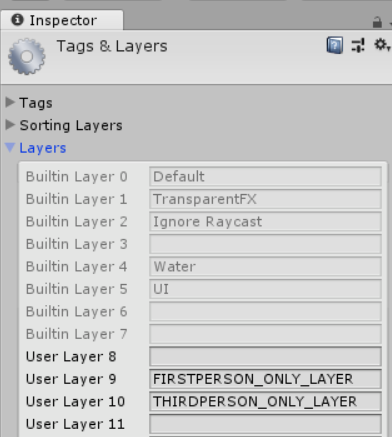
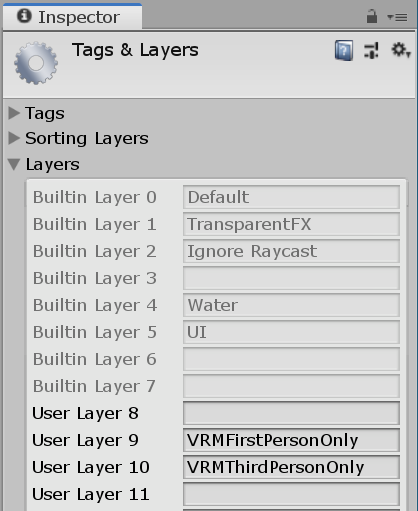
Deploy vrm-c/vrm.dev to github.com/vrm-c/vrm.dev.git:gh-pages

Changed region(s): [[0.0, 0.0, 1.0, 1.0]]

diff --git a/en/docs/dev/programming/univrm_use_firstperson/index.html b/en/docs/dev/programming/univrm_use_firstperson/index.html
@@ -1,7 +1,7 @@
 <!doctype html><html lang=en class=no-js><head><meta charset=utf-8><meta name=viewport content="width=device-width,initial-scale=1,shrink-to-fit=no"><meta name=generator content="Hugo 0.56.3"><meta name=ROBOTS content="INDEX, FOLLOW"><link rel="shortcut icon" href=/favicons/favicon.ico><link rel=apple-touch-icon href=/favicons/apple-touch-icon-180x180.png sizes=180x180><link rel=icon type=image/png href=/favicons/favicon-16x16.png sizes=16x16><link rel=icon type=image/png href=/favicons/favicon-32x32.png sizes=32x32><link rel=icon type=image/png href=/favicons/android-36x36.png sizes=36x36><link rel=icon type=image/png href=/favicons/android-48x48.png sizes=48x48><link rel=icon type=image/png href=/favicons/android-72x72.png sizes=72x72><link rel=icon type=image/png href=/favicons/android-96x196.png sizes=96x196><link rel=icon type=image/png href=/favicons/android-144x144.png sizes=144x144><link rel=icon type=image/png href=/favicons/android-192x192.png sizes=192x192><title>How to Use VRMFirstPerson | VRM</title><meta property=og:title content="How to Use VRMFirstPerson"><meta property=og:description content="VRMFirstPerson Settings VRMFirstPerson has the following settings for Renderer:
-   FirstPersonFlag Layer Note     Both default Specify parts that are not necessarily separated between first-person view and third-person view.   ThirdPersonOnly THIRDPERSON_ONLY_LAYER Specify parts that are not rendered in first-person view.   FirstPersonOnly FIRSTPERSON_ONLY_LAYER Specify parts that are not rendered in third-person view. The auto-created headless model is used.   Auto THIRDPERSON_ONLY_LAYER Automatically create the model in first-person view at runtime and set it to FIRSTPERSON_ONLY_LAYER."><meta property=og:type content=article><meta property=og:url content=https://vrm.dev/en/docs/dev/programming/univrm_use_firstperson/><meta property=og:image content=https://vrm.dev/images/vrm/card.png><meta property=article:published_time content=2018-05-29T10:00:00+09:00><meta property=article:modified_time content=2018-05-29T10:00:00+09:00><meta property=og:site_name content=VRM><meta itemprop=name content="How to Use VRMFirstPerson"><meta itemprop=description content="VRMFirstPerson Settings VRMFirstPerson has the following settings for Renderer:
-   FirstPersonFlag Layer Note     Both default Specify parts that are not necessarily separated between first-person view and third-person view.   ThirdPersonOnly THIRDPERSON_ONLY_LAYER Specify parts that are not rendered in first-person view.   FirstPersonOnly FIRSTPERSON_ONLY_LAYER Specify parts that are not rendered in third-person view. The auto-created headless model is used.   Auto THIRDPERSON_ONLY_LAYER Automatically create the model in first-person view at runtime and set it to FIRSTPERSON_ONLY_LAYER."><meta itemprop=datePublished content=2018-05-29T10:00:00&#43;09:00><meta itemprop=dateModified content=2018-05-29T10:00:00&#43;09:00><meta itemprop=wordCount content=250><meta itemprop=keywords content><meta name=twitter:card content=summary_large_image><meta name=twitter:image content=https://vrm.dev/images/vrm/card.png><meta name=twitter:title content="How to Use VRMFirstPerson"><meta name=twitter:description content="VRMFirstPerson Settings VRMFirstPerson has the following settings for Renderer:
-   FirstPersonFlag Layer Note     Both default Specify parts that are not necessarily separated between first-person view and third-person view.   ThirdPersonOnly THIRDPERSON_ONLY_LAYER Specify parts that are not rendered in first-person view.   FirstPersonOnly FIRSTPERSON_ONLY_LAYER Specify parts that are not rendered in third-person view. The auto-created headless model is used.   Auto THIRDPERSON_ONLY_LAYER Automatically create the model in first-person view at runtime and set it to FIRSTPERSON_ONLY_LAYER."><link rel=preload href=/scss/main.min.f809dd81c31369e745fc9960408ecf7e6c5ed33854d3a4201a6c039d56a4d89c.css as=style><link href=/scss/main.min.f809dd81c31369e745fc9960408ecf7e6c5ed33854d3a4201a6c039d56a4d89c.css rel=stylesheet integrity><script src=https://code.jquery.com/jquery-3.3.1.min.js integrity="sha256-FgpCb/KJQlLNfOu91ta32o/NMZxltwRo8QtmkMRdAu8=" crossorigin=anonymous></script><title>How to Use VRMFirstPerson | VRM</title></head><body class=td-page><header><nav class="js-navbar-scroll navbar navbar-expand navbar-dark flex-column flex-md-row td-navbar"><a class=navbar-brand href=/en/><span class=navbar-logo></span><span class="text-uppercase font-weight-bold">VRM</span></a><div class="td-navbar-nav-scroll ml-md-auto" id=main_navbar><ul class="navbar-nav mt-2 mt-lg-0"><li class="nav-item mr-4 mb-2 mb-lg-0"><a class=nav-link href=/en/vrm/><span>About VRM</span></a></li><li class="nav-item mr-4 mb-2 mb-lg-0"><a class=nav-link href=https://github.com/vrm-c/vrm-specification/blob/master/specification/0.0/README.md target=_blank><span>VRM Format Technical Specifications</span></a></li><li class="nav-item mr-4 mb-2 mb-lg-0"><a class=nav-link href=/en/docs/univrm/><span>UniVRM Manual</span></a></li><li class="nav-item mr-4 mb-2 mb-lg-0"><a class="nav-link active" href=/en/docs/dev/><span class=active>UniVRM Implementation</span></a></li><li class="nav-item mr-4 mb-2 mb-lg-0"><a class=nav-link href=https://github.com/vrm-c/UniVRM target=_blank><span>UniVRM Repository</span></a></li><li class="nav-item mr-4 mb-2 mb-lg-0"><a class=nav-link href=https://vrm-consortium.org/ target=_blank><span>VRM Consortium</span></a></li><li class="nav-item dropdown d-none d-lg-block"><a class="nav-link dropdown-toggle" href=# id=navbarDropdown role=button data-toggle=dropdown aria-haspopup=true aria-expanded=false>English</a><div class=dropdown-menu aria-labelledby=navbarDropdownMenuLink><a class=dropdown-item href=/docs/dev/programming/univrm_use_firstperson/>日本語</a></div></li></ul></div><div class="navbar-nav d-none d-lg-block"></div></nav></header><div class="container-fluid td-outer"><div class=td-main><div class="row flex-xl-nowrap"><div class="col-12 col-md-3 col-xl-2 td-sidebar d-print-none"><div id=td-sidebar-menu class=td-sidebar__inner><nav class="collapse td-sidebar-nav pt-2 pl-4" id=td-section-nav><div class="nav-item dropdown d-block d-lg-none"><a class="nav-link dropdown-toggle" href=# id=navbarDropdown role=button data-toggle=dropdown aria-haspopup=true aria-expanded=false>English</a><div class=dropdown-menu aria-labelledby=navbarDropdownMenuLink><a class=dropdown-item href=/docs/dev/programming/univrm_use_firstperson/>日本語</a></div></div><ul class="td-sidebar-nav__section pr-md-3"><li class=td-sidebar-nav__section-title><a href=/en/docs/ class="align-left pl-0 pr-2 td-sidebar-link td-sidebar-link__section">Documentation</a></li><ul><li class="collapse show" id=en-docs><ul class="td-sidebar-nav__section pr-md-3"><li class=td-sidebar-nav__section-title><a href=/en/vrm/ class="align-left pl-0 pr-2 collapsed td-sidebar-link td-sidebar-link__section">About VRM</a></li><ul><li class=collapse id=en-vrm><a class="td-sidebar-link td-sidebar-link__page" id=m-en-vrm-about href=/en/vrm_about/>What is “VRM”? What can VRM do?</a>
+   FirstPersonFlag Layer Note     Both default Specify parts that are not necessarily separated between first-person view and third-person view.   ThirdPersonOnly VRMThirdPersonOnly Specify parts that are not rendered in first-person view.   FirstPersonOnly VRMFirstPersonOnly Specify parts that are not rendered in third-person view. The auto-created headless model is used.   Auto VRMThirdPersonOnly Automatically create the model in first-person view at runtime and set it to FIRSTPERSON_ONLY_LAYER."><meta property=og:type content=article><meta property=og:url content=https://vrm.dev/en/docs/dev/programming/univrm_use_firstperson/><meta property=og:image content=https://vrm.dev/images/vrm/card.png><meta property=article:published_time content=2018-05-29T10:00:00+09:00><meta property=article:modified_time content=2018-05-29T10:00:00+09:00><meta property=og:site_name content=VRM><meta itemprop=name content="How to Use VRMFirstPerson"><meta itemprop=description content="VRMFirstPerson Settings VRMFirstPerson has the following settings for Renderer:
+   FirstPersonFlag Layer Note     Both default Specify parts that are not necessarily separated between first-person view and third-person view.   ThirdPersonOnly VRMThirdPersonOnly Specify parts that are not rendered in first-person view.   FirstPersonOnly VRMFirstPersonOnly Specify parts that are not rendered in third-person view. The auto-created headless model is used.   Auto VRMThirdPersonOnly Automatically create the model in first-person view at runtime and set it to FIRSTPERSON_ONLY_LAYER."><meta itemprop=datePublished content=2018-05-29T10:00:00&#43;09:00><meta itemprop=dateModified content=2018-05-29T10:00:00&#43;09:00><meta itemprop=wordCount content=250><meta itemprop=keywords content><meta name=twitter:card content=summary_large_image><meta name=twitter:image content=https://vrm.dev/images/vrm/card.png><meta name=twitter:title content="How to Use VRMFirstPerson"><meta name=twitter:description content="VRMFirstPerson Settings VRMFirstPerson has the following settings for Renderer:
+   FirstPersonFlag Layer Note     Both default Specify parts that are not necessarily separated between first-person view and third-person view.   ThirdPersonOnly VRMThirdPersonOnly Specify parts that are not rendered in first-person view.   FirstPersonOnly VRMFirstPersonOnly Specify parts that are not rendered in third-person view. The auto-created headless model is used.   Auto VRMThirdPersonOnly Automatically create the model in first-person view at runtime and set it to FIRSTPERSON_ONLY_LAYER."><link rel=preload href=/scss/main.min.f809dd81c31369e745fc9960408ecf7e6c5ed33854d3a4201a6c039d56a4d89c.css as=style><link href=/scss/main.min.f809dd81c31369e745fc9960408ecf7e6c5ed33854d3a4201a6c039d56a4d89c.css rel=stylesheet integrity><script src=https://code.jquery.com/jquery-3.3.1.min.js integrity="sha256-FgpCb/KJQlLNfOu91ta32o/NMZxltwRo8QtmkMRdAu8=" crossorigin=anonymous></script><title>How to Use VRMFirstPerson | VRM</title></head><body class=td-page><header><nav class="js-navbar-scroll navbar navbar-expand navbar-dark flex-column flex-md-row td-navbar"><a class=navbar-brand href=/en/><span class=navbar-logo></span><span class="text-uppercase font-weight-bold">VRM</span></a><div class="td-navbar-nav-scroll ml-md-auto" id=main_navbar><ul class="navbar-nav mt-2 mt-lg-0"><li class="nav-item mr-4 mb-2 mb-lg-0"><a class=nav-link href=/en/vrm/><span>About VRM</span></a></li><li class="nav-item mr-4 mb-2 mb-lg-0"><a class=nav-link href=https://github.com/vrm-c/vrm-specification/blob/master/specification/0.0/README.md target=_blank><span>VRM Format Technical Specifications</span></a></li><li class="nav-item mr-4 mb-2 mb-lg-0"><a class=nav-link href=/en/docs/univrm/><span>UniVRM Manual</span></a></li><li class="nav-item mr-4 mb-2 mb-lg-0"><a class="nav-link active" href=/en/docs/dev/><span class=active>UniVRM Implementation</span></a></li><li class="nav-item mr-4 mb-2 mb-lg-0"><a class=nav-link href=https://github.com/vrm-c/UniVRM target=_blank><span>UniVRM Repository</span></a></li><li class="nav-item mr-4 mb-2 mb-lg-0"><a class=nav-link href=https://vrm-consortium.org/ target=_blank><span>VRM Consortium</span></a></li><li class="nav-item dropdown d-none d-lg-block"><a class="nav-link dropdown-toggle" href=# id=navbarDropdown role=button data-toggle=dropdown aria-haspopup=true aria-expanded=false>English</a><div class=dropdown-menu aria-labelledby=navbarDropdownMenuLink><a class=dropdown-item href=/docs/dev/programming/univrm_use_firstperson/>日本語</a></div></li></ul></div><div class="navbar-nav d-none d-lg-block"></div></nav></header><div class="container-fluid td-outer"><div class=td-main><div class="row flex-xl-nowrap"><div class="col-12 col-md-3 col-xl-2 td-sidebar d-print-none"><div id=td-sidebar-menu class=td-sidebar__inner><nav class="collapse td-sidebar-nav pt-2 pl-4" id=td-section-nav><div class="nav-item dropdown d-block d-lg-none"><a class="nav-link dropdown-toggle" href=# id=navbarDropdown role=button data-toggle=dropdown aria-haspopup=true aria-expanded=false>English</a><div class=dropdown-menu aria-labelledby=navbarDropdownMenuLink><a class=dropdown-item href=/docs/dev/programming/univrm_use_firstperson/>日本語</a></div></div><ul class="td-sidebar-nav__section pr-md-3"><li class=td-sidebar-nav__section-title><a href=/en/docs/ class="align-left pl-0 pr-2 td-sidebar-link td-sidebar-link__section">Documentation</a></li><ul><li class="collapse show" id=en-docs><ul class="td-sidebar-nav__section pr-md-3"><li class=td-sidebar-nav__section-title><a href=/en/vrm/ class="align-left pl-0 pr-2 collapsed td-sidebar-link td-sidebar-link__section">About VRM</a></li><ul><li class=collapse id=en-vrm><a class="td-sidebar-link td-sidebar-link__page" id=m-en-vrm-about href=/en/vrm_about/>What is “VRM”? What can VRM do?</a>
 <a class="td-sidebar-link td-sidebar-link__page" id=m-en-how-to-make-vrm href=/en/how_to_make_vrm/>How to make VRM file</a>
 <a class="td-sidebar-link td-sidebar-link__page" id=m-en-how-to-view-vrm href=/en/how_to_view_vrm/>How to view VRM file</a>
 <a class="td-sidebar-link td-sidebar-link__page" id=m-en-vrm-applications href=/en/vrm_applications/>What applications that support VRM?</a></li></ul></ul><ul class="td-sidebar-nav__section pr-md-3"><li class=td-sidebar-nav__section-title><a href=/en/docs/univrm/ class="align-left pl-0 pr-2 collapsed td-sidebar-link td-sidebar-link__section">UniVRM Manual</a></li><ul><li class=collapse id=en-docs-univrm><a class="td-sidebar-link td-sidebar-link__page" id=m-en-univrm-univrm-install href=/en/univrm/univrm_install/>Install UniVRM</a>
@@ -27,7 +27,7 @@
 <a class="td-sidebar-link td-sidebar-link__page" id=m-en-docs-dev-programming-runtime-import href=/en/docs/dev/programming/runtime_import/>Runtime Importer</a></li></ul></ul></li></ul></ul></li></ul></ul></nav></div></div><div class="d-none d-xl-block col-xl-2 td-toc d-print-none"><div class="td-page-meta ml-2 pb-1 pt-2 mb-0"><a href=https://github.com/vrm-c/vrm.dev/edit/master/content/en/docs/dev/programming/univrm_use_firstperson.md target=_blank><i class="fa fa-edit fa-fw"></i>Edit this page</a>
 <a href="https://github.com/vrm-c/vrm.dev/issues/new?title=How%20to%20Use%20VRMFirstPerson" target=_blank><i class="fab fa-github fa-fw"></i>Create documentation issue</a></div><nav id=TableOfContents><ul><li><a href=#vrmfirstperson-settings-univrm-firstperson><a href=../univrm_firstperson/>VRMFirstPerson Settings</a></a></li><li><a href=#specify-the-additional-render-layers-for-the-application>Specify the additional render layers for the application</a></li><li><a href=#call-setup-function-at-runtime-and-set-layermask-in-camera>Call Setup function at runtime and set LayerMask in Camera</a></li></ul></nav></div><main class="col-12 col-md-9 col-xl-8 pl-md-5" role=main><nav aria-label=breadcrumb class="d-none d-md-block d-print-none"><ol class="breadcrumb spb-1"><li class=breadcrumb-item><a href=https://vrm.dev/en/docs/>Documentation</a></li><li class=breadcrumb-item><a href=https://vrm.dev/en/docs/dev/>UniVRM Implementation</a></li><li class=breadcrumb-item><a href=https://vrm.dev/en/docs/dev/programming/>Programming</a></li><li class="breadcrumb-item active" aria-current=page><a href=https://vrm.dev/en/docs/dev/programming/univrm_use_firstperson/>How to use first-person mode</a></li></ol></nav><div class=td-content><h1>How to Use VRMFirstPerson</h1><div class=share><a href="https://twitter.com/share?ref_src=twsrc%5Etfw" class=twitter-share-button data-text="How to use first-person mode  - VRM" data-url=https://vrm.dev/en/docs/dev/programming/univrm_use_firstperson/ data-show-count=false>Tweet</a><script async src=https://platform.twitter.com/widgets.js></script>
 <a href=https://b.hatena.ne.jp/entry/https://vrm.dev/en/docs/dev/programming/univrm_use_firstperson/ class=hatena-bookmark-button data-hatena-bookmark-layout=basic-label-counter data-hatena-bookmark-lang=ja title=このエントリーをはてなブックマークに追加><img src=https://b.st-hatena.com/images/v4/public/entry-button/button-only@2x.png alt=このエントリーをはてなブックマークに追加 width=20 height=20 style=border:none></a><script type=text/javascript src=https://b.st-hatena.com/js/bookmark_button.js async></script>
-<iframe src="https://www.facebook.com/plugins/share_button.php?href=https%3a%2f%2fvrm.dev%2fen%2fdocs%2fdev%2fprogramming%2funivrm_use_firstperson%2f&layout=button&size=small&mobile_iframe=false&width=68&height=20&appId" width=68 height=20 style=border:none;overflow:hidden scrolling=no frameborder=0 allowtransparency=true></iframe></div><h1 id=vrmfirstperson-settings-univrm-firstperson><a href=../univrm_firstperson/>VRMFirstPerson Settings</a></h1><p>VRMFirstPerson has the following settings for Renderer:</p><table><thead><tr><th>FirstPersonFlag</th><th>Layer</th><th>Note</th></tr></thead><tbody><tr><td>Both</td><td>default</td><td>Specify parts that are not necessarily separated between first-person view and third-person view.</td></tr><tr><td>ThirdPersonOnly</td><td>THIRDPERSON_ONLY_LAYER</td><td>Specify parts that are not rendered in first-person view.</td></tr><tr><td>FirstPersonOnly</td><td>FIRSTPERSON_ONLY_LAYER</td><td>Specify parts that are not rendered in third-person view. The auto-created headless model is used.</td></tr><tr><td>Auto</td><td>THIRDPERSON_ONLY_LAYER</td><td>Automatically create the model in first-person view at runtime and set it to FIRSTPERSON_ONLY_LAYER.</td></tr></tbody></table><p>By calling <strong>VRMFirstPerson.Setup</strong> at runtime, the layer settings described above can be performed. Please call the function explicitly from outside.</p><h1 id=specify-the-additional-render-layers-for-the-application>Specify the additional render layers for the application</h1><p>The following layers are defined as constant:</p><div class=highlight><pre style=background-color:#f8f8f8;-moz-tab-size:4;-o-tab-size:4;tab-size:4><code class=language-cs data-lang=cs><span style=color:#204a87;font-weight:700>public</span> <span style=color:#204a87;font-weight:700>class</span> <span style=color:#000>VRMFirstPerson</span> <span style=color:#000;font-weight:700>:</span> <span style=color:#000>MonoBehaviour</span>
+<iframe src="https://www.facebook.com/plugins/share_button.php?href=https%3a%2f%2fvrm.dev%2fen%2fdocs%2fdev%2fprogramming%2funivrm_use_firstperson%2f&layout=button&size=small&mobile_iframe=false&width=68&height=20&appId" width=68 height=20 style=border:none;overflow:hidden scrolling=no frameborder=0 allowtransparency=true></iframe></div><h1 id=vrmfirstperson-settings-univrm-firstperson><a href=../univrm_firstperson/>VRMFirstPerson Settings</a></h1><p>VRMFirstPerson has the following settings for Renderer:</p><table><thead><tr><th>FirstPersonFlag</th><th>Layer</th><th>Note</th></tr></thead><tbody><tr><td>Both</td><td>default</td><td>Specify parts that are not necessarily separated between first-person view and third-person view.</td></tr><tr><td>ThirdPersonOnly</td><td>VRMThirdPersonOnly</td><td>Specify parts that are not rendered in first-person view.</td></tr><tr><td>FirstPersonOnly</td><td>VRMFirstPersonOnly</td><td>Specify parts that are not rendered in third-person view. The auto-created headless model is used.</td></tr><tr><td>Auto</td><td>VRMThirdPersonOnly</td><td>Automatically create the model in first-person view at runtime and set it to FIRSTPERSON_ONLY_LAYER.</td></tr></tbody></table><p>By calling <strong>VRMFirstPerson.Setup</strong> at runtime, the layer settings described above can be performed. Please call the function explicitly from outside.</p><h1 id=specify-the-additional-render-layers-for-the-application>Specify the additional render layers for the application</h1><p>The following layers are defined as constant:</p><div class=highlight><pre style=background-color:#f8f8f8;-moz-tab-size:4;-o-tab-size:4;tab-size:4><code class=language-cs data-lang=cs><span style=color:#204a87;font-weight:700>public</span> <span style=color:#204a87;font-weight:700>class</span> <span style=color:#000>VRMFirstPerson</span> <span style=color:#000;font-weight:700>:</span> <span style=color:#000>MonoBehaviour</span>
 <span style=color:#000;font-weight:700>{</span>
     <span style=color:#204a87;font-weight:700>public</span> <span style=color:#204a87;font-weight:700>const</span> <span style=color:#204a87;font-weight:700>int</span> <span style=color:#000>FIRSTPERSON_ONLY_LAYER</span> <span style=color:#000;font-weight:700>=</span> <span style=color:#0000cf;font-weight:700>9</span><span style=color:#000;font-weight:700>;</span>
     <span style=color:#204a87;font-weight:700>public</span> <span style=color:#204a87;font-weight:700>const</span> <span style=color:#204a87;font-weight:700>int</span> <span style=color:#000>THIRDPERSON_ONLY_LAYER</span> <span style=color:#000;font-weight:700>=</span> <span style=color:#0000cf;font-weight:700>10</span><span style=color:#000;font-weight:700>;</span>
@@ -45,10 +45,10 @@
     <span style=color:#000>Camera</span> <span style=color:#000>m_firstPersonCamera</span><span style=color:#000;font-weight:700>;</span> <span style=color:#8f5902;font-style:italic>// HMD camera
 </span><span style=color:#8f5902;font-style:italic></span><span style=color:#c4a000>    
 </span><span style=color:#c4a000>    [SerializeField]</span>
-    <span style=color:#000>LayerMask</span> <span style=color:#000>m_firstPersonMask</span><span style=color:#000;font-weight:700>;</span> <span style=color:#8f5902;font-style:italic>// Set a first-person mask (default | FIRSTPERSON_ONLY_LAYER, etc.) in HMD camera
+    <span style=color:#000>LayerMask</span> <span style=color:#000>m_firstPersonMask</span><span style=color:#000;font-weight:700>;</span> <span style=color:#8f5902;font-style:italic>// Set a first-person mask (default | VRMFirstPersonOnly, etc.) in HMD camera
 </span><span style=color:#8f5902;font-style:italic></span><span style=color:#c4a000>
 </span><span style=color:#c4a000>    [SerializeField]</span>
-    <span style=color:#000>LayerMask</span> <span style=color:#000>m_otherMask</span><span style=color:#000;font-weight:700>;</span> <span style=color:#8f5902;font-style:italic>// Set other masks (default | THIRDPERSON_ONLY_LAYER, etc.) in HMD camera
+    <span style=color:#000>LayerMask</span> <span style=color:#000>m_otherMask</span><span style=color:#000;font-weight:700>;</span> <span style=color:#8f5902;font-style:italic>// Set other masks (default | VRMThirdPersonOnly, etc.) in HMD camera
 </span><span style=color:#8f5902;font-style:italic></span><span style=color:#c4a000>
 </span><span style=color:#c4a000>    [SerializeField]</span>
     <span style=color:#000>VRMFirstPerson</span> <span style=color:#000>m_firstPerson</span><span style=color:#000;font-weight:700>;</span>

diff --git a/docs/dev/programming/univrm_use_firstperson/index.html b/docs/dev/programming/univrm_use_firstperson/index.html
@@ -24,7 +24,7 @@
 <a class="td-sidebar-link td-sidebar-link__page" id=m-docs-dev-programming-runtime-import href=/docs/dev/programming/runtime_import/>ランタイムインポーター</a></li></ul></ul></li></ul></ul></li></ul></ul></nav></div></div><div class="d-none d-xl-block col-xl-2 td-toc d-print-none"><div class="td-page-meta ml-2 pb-1 pt-2 mb-0"><a href=https://github.com/vrm-c/vrm.dev/edit/master/content/ja/docs/dev/programming/univrm_use_firstperson.md target=_blank><i class="fa fa-edit fa-fw"></i>ページの編集</a>
 <a href="https://github.com/vrm-c/vrm.dev/issues/new?title=VRMFirstPerson%e3%81%ae%e4%bd%bf%e3%81%84%e6%96%b9" target=_blank><i class="fab fa-github fa-fw"></i>ドキュメントのissueを作成</a></div><nav id=TableOfContents><ul><li><a href=#vrmfirstpersonの設定-univrm-firstperson><a href=../univrm_firstperson/>VRMFirstPersonの設定</a></a></li><li><a href=#アプリケーションに追加の描画レイヤーを指定する>アプリケーションに追加の描画レイヤーを指定する</a></li><li><a href=#実行時にsetupを呼び出して-カメラにlayermaskを設定する>実行時にSetupを呼び出して、カメラにLayerMaskを設定する</a></li></ul></nav></div><main class="col-12 col-md-9 col-xl-8 pl-md-5" role=main><nav aria-label=breadcrumb class="d-none d-md-block d-print-none"><ol class="breadcrumb spb-1"><li class=breadcrumb-item><a href=https://vrm.dev/docs/>ドキュメント</a></li><li class=breadcrumb-item><a href=https://vrm.dev/docs/dev/>UniVRM実装</a></li><li class=breadcrumb-item><a href=https://vrm.dev/docs/dev/programming/>プログラミング</a></li><li class="breadcrumb-item active" aria-current=page><a href=https://vrm.dev/docs/dev/programming/univrm_use_firstperson/>一人称モードの使い方</a></li></ol></nav><div class=td-content><h1>VRMFirstPersonの使い方</h1><div class=share><a href="https://twitter.com/share?ref_src=twsrc%5Etfw" class=twitter-share-button data-text="一人称モードの使い方 - VRM" data-url=https://vrm.dev/docs/dev/programming/univrm_use_firstperson/ data-show-count=false>Tweet</a><script async src=https://platform.twitter.com/widgets.js></script>
 <a href=https://b.hatena.ne.jp/entry/https://vrm.dev/docs/dev/programming/univrm_use_firstperson/ class=hatena-bookmark-button data-hatena-bookmark-layout=basic-label-counter data-hatena-bookmark-lang=ja title=このエントリーをはてなブックマークに追加><img src=https://b.st-hatena.com/images/v4/public/entry-button/button-only@2x.png alt=このエントリーをはてなブックマークに追加 width=20 height=20 style=border:none></a><script type=text/javascript src=https://b.st-hatena.com/js/bookmark_button.js async></script>
-<iframe src="https://www.facebook.com/plugins/share_button.php?href=https%3a%2f%2fvrm.dev%2fdocs%2fdev%2fprogramming%2funivrm_use_firstperson%2f&layout=button&size=small&mobile_iframe=false&width=68&height=20&appId" width=68 height=20 style=border:none;overflow:hidden scrolling=no frameborder=0 allowtransparency=true></iframe></div><h1 id=vrmfirstpersonの設定-univrm-firstperson><a href=../univrm_firstperson/>VRMFirstPersonの設定</a></h1><p>VRMFirstPersonではRendererに対して設定があります。</p><table><thead><tr><th>FirstPersonFlag</th><th>レイヤー</th><th>備考</th></tr></thead><tbody><tr><td>Both</td><td>default</td><td>一人称と三人称で分ける必要のない部分に指定します</td></tr><tr><td>ThirdPersonOnly</td><td>THIRDPERSON_ONLY_LAYER</td><td>一人称時に描画したくない部分に指定します</td></tr><tr><td>FirstPersonOnly</td><td>FIRSTPERSON_ONLY_LAYER</td><td>三人称時に描画したくない部分に指定します。自動作成した頭部無しモデルが使います</td></tr><tr><td>Auto</td><td>THIRDPERSON_ONLY_LAYER</td><td>実行時に一人称用モデルを自動で作成し、それをFIRSTPERSON_ONLY_LAYERに設定します</td></tr></tbody></table><p>実行時に<strong>VRMFirstPerson.Setup</strong>を呼び出すことで、上記のレイヤー設定を行うことができます。明示的に外部から呼び出してください。</p><h1 id=アプリケーションに追加の描画レイヤーを指定する>アプリケーションに追加の描画レイヤーを指定する</h1><p>定数で以下のレイヤーを定義しています。</p><div class=highlight><pre style=background-color:#f8f8f8;-moz-tab-size:4;-o-tab-size:4;tab-size:4><code class=language-cs data-lang=cs><span style=color:#204a87;font-weight:700>public</span> <span style=color:#204a87;font-weight:700>class</span> <span style=color:#000>VRMFirstPerson</span> <span style=color:#000;font-weight:700>:</span> <span style=color:#000>MonoBehaviour</span>
+<iframe src="https://www.facebook.com/plugins/share_button.php?href=https%3a%2f%2fvrm.dev%2fdocs%2fdev%2fprogramming%2funivrm_use_firstperson%2f&layout=button&size=small&mobile_iframe=false&width=68&height=20&appId" width=68 height=20 style=border:none;overflow:hidden scrolling=no frameborder=0 allowtransparency=true></iframe></div><h1 id=vrmfirstpersonの設定-univrm-firstperson><a href=../univrm_firstperson/>VRMFirstPersonの設定</a></h1><p>VRMFirstPersonではRendererに対して設定があります。</p><table><thead><tr><th>FirstPersonFlag</th><th>レイヤー</th><th>備考</th></tr></thead><tbody><tr><td>Both</td><td>default</td><td>一人称と三人称で分ける必要のない部分に指定します</td></tr><tr><td>ThirdPersonOnly</td><td>VRMThirdPersonOnly</td><td>一人称時に描画したくない部分に指定します</td></tr><tr><td>FirstPersonOnly</td><td>VRMFirstPersonOnly</td><td>三人称時に描画したくない部分に指定します。自動作成した頭部無しモデルが使います</td></tr><tr><td>Auto</td><td>VRMThirdPersonOnly</td><td>実行時に一人称用モデルを自動で作成し、それをFIRSTPERSON_ONLY_LAYERに設定します</td></tr></tbody></table><p>実行時に<strong>VRMFirstPerson.Setup</strong>を呼び出すことで、上記のレイヤー設定を行うことができます。明示的に外部から呼び出してください。</p><h1 id=アプリケーションに追加の描画レイヤーを指定する>アプリケーションに追加の描画レイヤーを指定する</h1><p>定数で以下のレイヤーを定義しています。</p><div class=highlight><pre style=background-color:#f8f8f8;-moz-tab-size:4;-o-tab-size:4;tab-size:4><code class=language-cs data-lang=cs><span style=color:#204a87;font-weight:700>public</span> <span style=color:#204a87;font-weight:700>class</span> <span style=color:#000>VRMFirstPerson</span> <span style=color:#000;font-weight:700>:</span> <span style=color:#000>MonoBehaviour</span>
 <span style=color:#000;font-weight:700>{</span>
     <span style=color:#204a87;font-weight:700>public</span> <span style=color:#204a87;font-weight:700>const</span> <span style=color:#204a87;font-weight:700>int</span> <span style=color:#000>FIRSTPERSON_ONLY_LAYER</span> <span style=color:#000;font-weight:700>=</span> <span style=color:#0000cf;font-weight:700>9</span><span style=color:#000;font-weight:700>;</span>
     <span style=color:#204a87;font-weight:700>public</span> <span style=color:#204a87;font-weight:700>const</span> <span style=color:#204a87;font-weight:700>int</span> <span style=color:#000>THIRDPERSON_ONLY_LAYER</span> <span style=color:#000;font-weight:700>=</span> <span style=color:#0000cf;font-weight:700>10</span><span style=color:#000;font-weight:700>;</span>
@@ -42,10 +42,10 @@
     <span style=color:#000>Camera</span> <span style=color:#000>m_firstPersonCamera</span><span style=color:#000;font-weight:700>;</span> <span style=color:#8f5902;font-style:italic>// HMDのカメラ
 </span><span style=color:#8f5902;font-style:italic></span><span style=color:#c4a000>
 </span><span style=color:#c4a000>    [SerializeField]</span>
-    <span style=color:#000>LayerMask</span> <span style=color:#000>m_firstPersonMask</span><span style=color:#000;font-weight:700>;</span> <span style=color:#8f5902;font-style:italic>// HMDのカメラにセットするマスク default | FIRSTPERSON_ONLY_LAYER など
+    <span style=color:#000>LayerMask</span> <span style=color:#000>m_firstPersonMask</span><span style=color:#000;font-weight:700>;</span> <span style=color:#8f5902;font-style:italic>// HMDのカメラにセットするマスク default | VRMFirstPersonOnly など
 </span><span style=color:#8f5902;font-style:italic></span><span style=color:#c4a000>
 </span><span style=color:#c4a000>    [SerializeField]</span>
-    <span style=color:#000>LayerMask</span> <span style=color:#000>m_otherMask</span><span style=color:#000;font-weight:700>;</span> <span style=color:#8f5902;font-style:italic>// HMDのカメラにセットするマスク default | THIRDPERSON_ONLY_LAYER など
+    <span style=color:#000>LayerMask</span> <span style=color:#000>m_otherMask</span><span style=color:#000;font-weight:700>;</span> <span style=color:#8f5902;font-style:italic>// HMDのカメラにセットするマスク default | VRMThirdPersonOnly など
 </span><span style=color:#8f5902;font-style:italic></span><span style=color:#c4a000>
 </span><span style=color:#c4a000>    [SerializeField]</span>
     <span style=color:#000>VRMFirstPerson</span> <span style=color:#000>m_firstPerson</span><span style=color:#000;font-weight:700>;</span>
